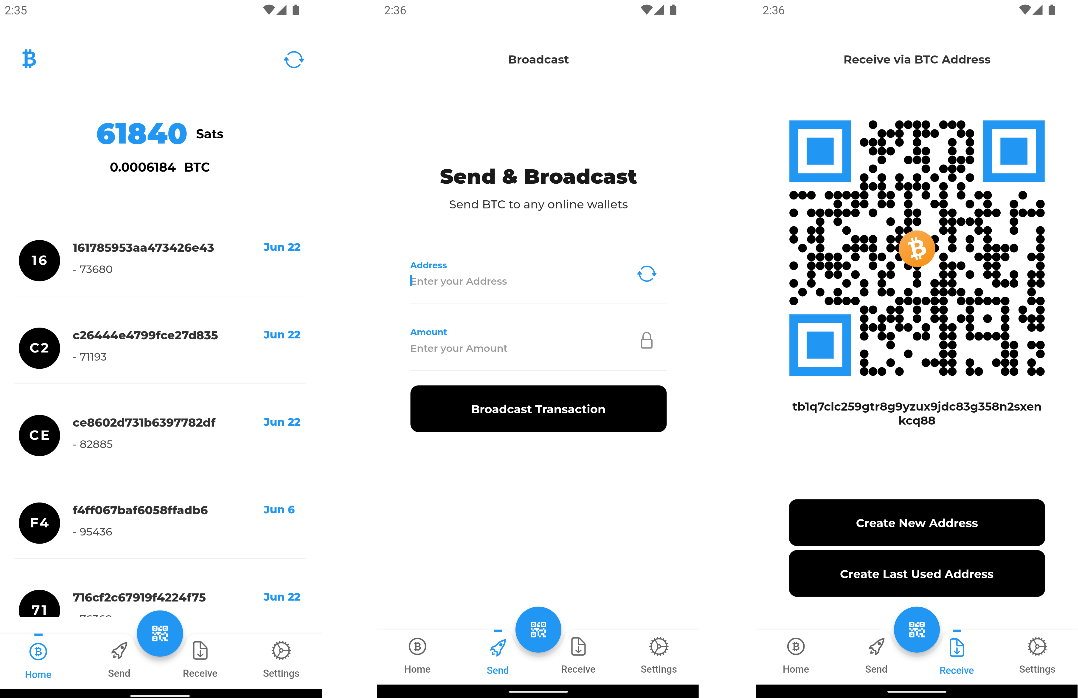
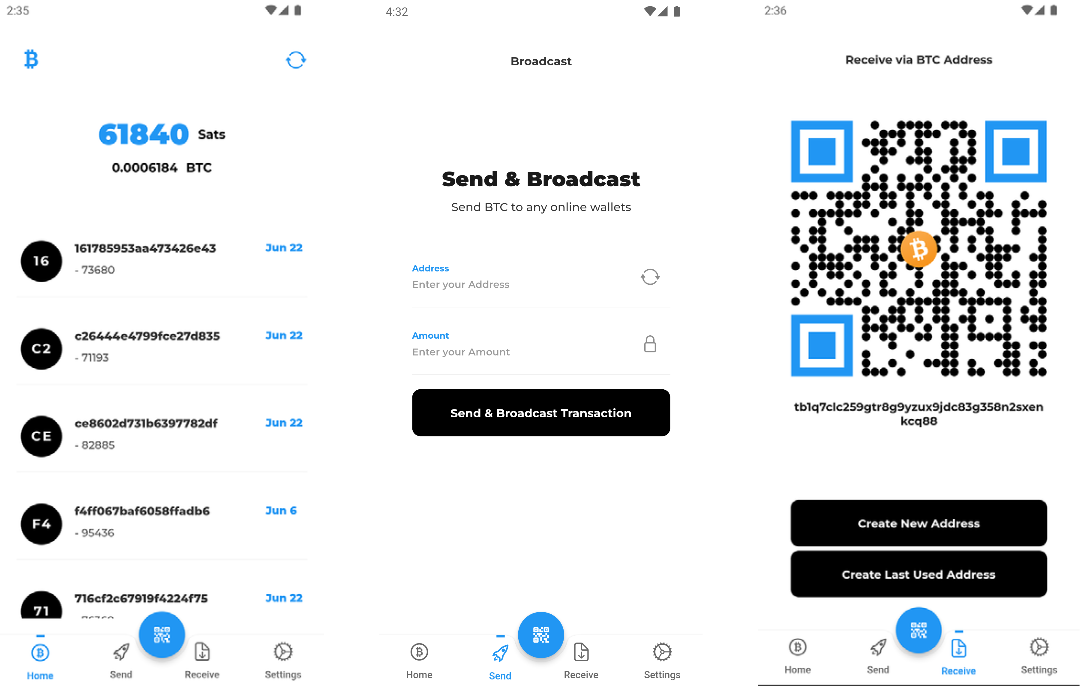
updated readme

diff --git a/lib/presentaition/dashboard/widgets/transaction_list.dart b/lib/presentaition/dashboard/widgets/transaction_list.dart
@@ -20,7 +20,7 @@ class _TransactionListState extends State<TransactionList> {
         return Center(
           child: state.isSubmitting? const CircularProgressIndicator(value: null, color: Colors.blue,):Container(
             padding: const EdgeInsets.only(top: 50),
-            child:  ( state.transactions!.isNotEmpty|| state.transactions!= null)? ListView.builder(
+            child:  ( state.transactions!.isNotEmpty && state.transactions!=null)? ListView.builder(
                 shrinkWrap: true,
                 reverse: true,
                 physics: const NeverScrollableScrollPhysics(),
@@ -34,7 +34,7 @@ class _TransactionListState extends State<TransactionList> {
                       received: state.transactions![index].received,)):
             Text('No Confirmed Transactions Found',
                 style: GoogleFonts.montserrat(
-                    fontSize: 18,
+                    fontSize: 15,
                     color:Colors.black.withOpacity(.8),
                     height: 2.2,
                     fontWeight: FontWeight.w600)),

diff --git a/lib/presentaition/send/send.dart b/lib/presentaition/send/send.dart
@@ -13,6 +13,9 @@ class Send extends StatefulWidget {
   State<Send> createState() => _SendState();
 }
 
+// 17QWYL4KxUNk5MAwAMCtMfjGE5UpQzw9ZF
+//ssl://electrum.blockstream.info:60002
+//         "pole account coconut skull draw more coyote sure neutral board large hello"
 class _SendState extends State<Send> {
   final _formKey = GlobalKey<FormState>();
   final  _amount = TextEditingController();
@@ -217,7 +220,7 @@ class _SendState extends State<Send> {
                                     ? const CircularProgressIndicator(
                                   value: null,
                                 )
-                                    : Text("Broadcast Transaction",
+                                    : Text("Send & Broadcast Transaction",
                                     style: GoogleFonts.montserrat(
                                         color: Colors.white,
                                         fontSize: 14,

diff --git a/lib/presentaition/dashboard/home.dart b/lib/presentaition/dashboard/home.dart
@@ -98,6 +98,16 @@ class _HomeState extends State<Home> {
                                 fontWeight: FontWeight.w700))
                       ]),
                   const SizedBox(height: 30),
+                  const Divider(),
+                  Row(
+                    mainAxisAlignment: MainAxisAlignment.end,
+                    children: [
+                      Text("Pending Transactions",
+                          style: GoogleFonts.montserrat(
+                              fontSize: 12,
+                              color:Colors.black.withOpacity(.6),
+                              fontWeight: FontWeight.w400))
+                  ],),
                   const TransactionList()
                 ],),),
           ),

diff --git a/lib/presentaition/wallet/init_wallet.dart b/lib/presentaition/wallet/init_wallet.dart
@@ -48,7 +48,7 @@ class InitWallet extends StatelessWidget {
                     color: Colors.black.withOpacity(.9)
                 )),
             const SizedBox(height: 15),
-            Text("Built using Flutter version of Bitcoin Development Kit",
+            Text("Built using Flutter version of \n Bitcoin Development Kit",
                 textAlign: TextAlign.center,
                 style: GoogleFonts.montserrat(
                     decoration: TextDecoration.none,

diff --git a/README.md b/README.md
@@ -1,10 +1,8 @@
 # Bdk Wallet Demo
  
 
-<div align="center"> <img src="./screenshots/screenshot.png" /> 
-
- 
-  </div>
+<div align="center"> <img src="./screenshots/screenshot.png" />
+</div>
   
 ##   
 The _Bitcoindevkit Flutter Demo App_ is a simple testnet Bitcoin wallet built as a reference app for the
